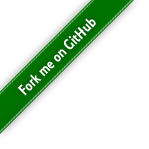
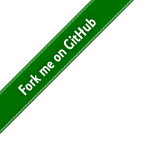
Top menu changed

Changed region(s): [[0.0268, 0.0268, 0.8859, 0.8859], [0.0, 0.0, 0.6174, 0.6174]]

diff --git a/Templates/default/_static/css/layout.css b/Templates/default/_static/css/layout.css
@@ -14,7 +14,7 @@ body {
     left:0;
     width:149px;
     height:149px;
-    background:url(../img/forkMe.png);
+    background:url(../img/forkMe.gif);
 
     white-space:nowrap;
     text-indent:-9999px;
@@ -28,10 +28,11 @@ body {
 }
 
     #headerWrapper  header {
-        background:url('../img/header.jpg') no-repeat 0 0;
+        width:960px;
+        margin:0 auto;
+        background:url('../img/header.jpg') no-repeat 0 bottom;
         position:relative;
-        background-position:center 0;
-        height:164px;
+        height:160px;
     }
 
 
@@ -40,7 +41,7 @@ body {
 
             margin-left:15px;
             width:230px;
-            height:130px;
+            height:140px;
 
             white-space:nowrap;
             text-indent:-9999px;
@@ -64,8 +65,8 @@ body {
 
         #headerWrapper header nav {
             position:absolute;
-            top:118px;
-            right:40px;
+            top:112px;
+            right:20px;
         }
 
 
@@ -78,55 +79,64 @@ body {
             display:block;
             float:left;
             height:30px;
-            margin-right:50px;
+            margin-right:20px;
         }
 
         #headerWrapper header nav a.blog {
-            width:70px;
+            width:50px;
         }
 
         #headerWrapper header nav a.blog:hover {
-            background-position:0 -30px;
+            background-position:0 -33px;
         }
 
 
+        #headerWrapper header nav a.articles {
+            width:75px;
+            background-position:-70px 0;
+        }
+
+
+        #headerWrapper header nav a.articles:hover {
+            background-position:-70px -33px;
+        }
+
         #headerWrapper header nav a.projects {
-            width:150px;
-            background-position:-78px 0;
+            width:75px;
+            background-position:-170px 0;
         }
 
 
         #headerWrapper header nav a.projects:hover {
-            background-position:-78px -30px;
+            background-position:-170px -33px;
         }
 
-
         #headerWrapper header nav a.about {
-            width:95px;
-            background-position:-230px 0;
+            width:55px;
+            background-position:-268px 0;
         }
 
         #headerWrapper header nav a.about:hover {
-            background-position:-230px -30px;
+            background-position:-268px -33px;
         }
 
 
         #headerWrapper header nav a.contact {
-            width:130px;
-            background-position:-334px 0;
+            width:78px;
+            background-position:-348px 0;
             margin-right:0px;
         }
 
 
         #headerWrapper header nav a.contact:hover {
-            background-position:-334px -30px;
+            background-position:-348px -33px;
         }
 
 /** End of Header */
 
 /** Middle Content */
 #contentWrapper {
-    background:url('../img/contentBg.jpg') no-repeat 50% 3px;
+    background:url('../img/contentBg.jpg') no-repeat 50% 0px;
 }
 
     #content {
